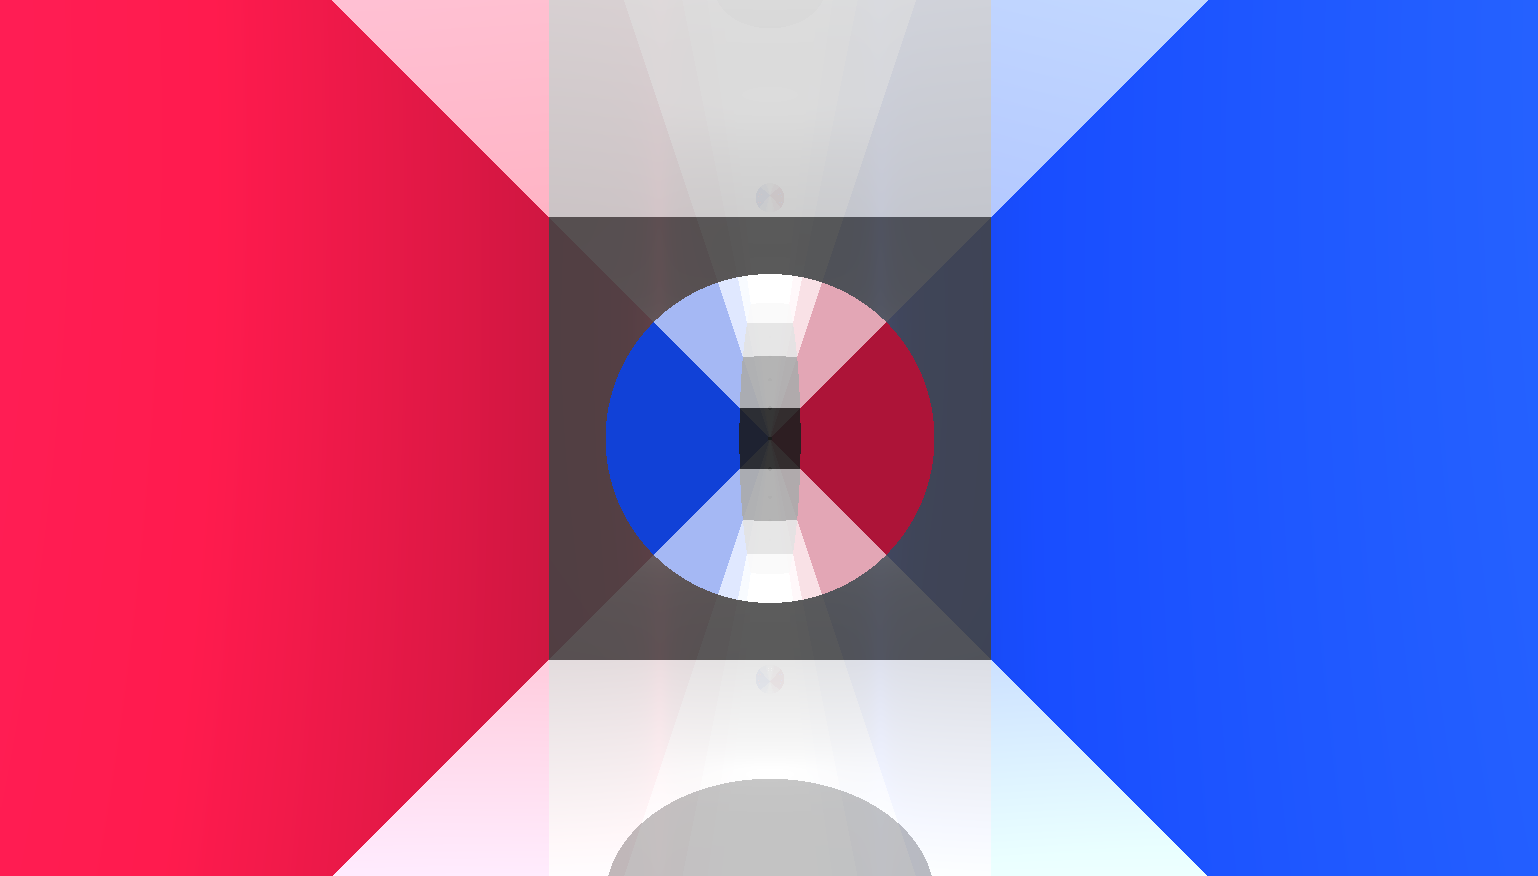
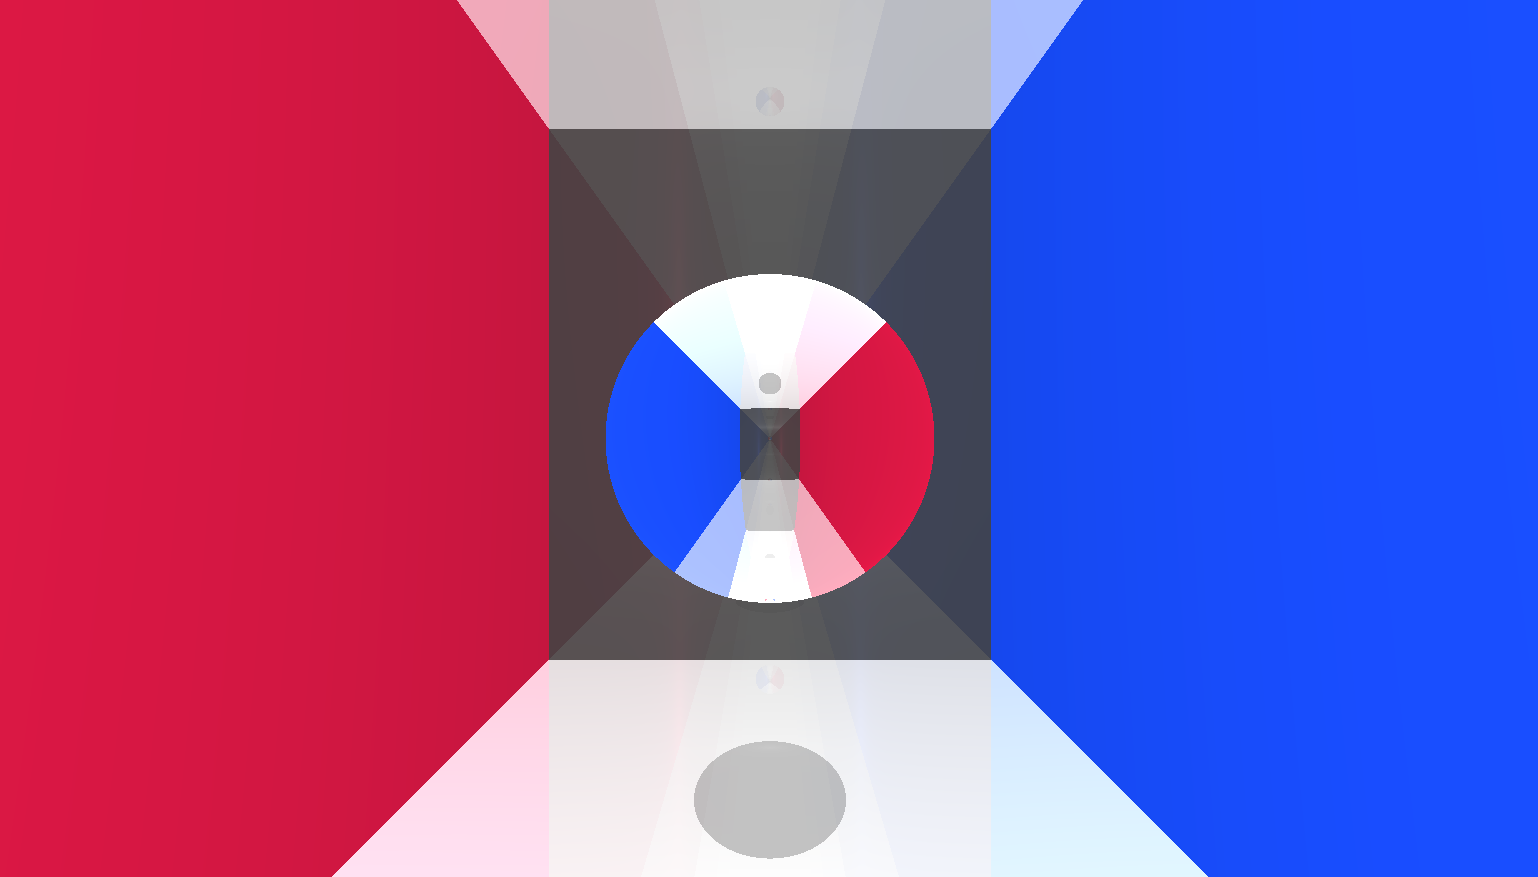
refraction fix

diff --git a/src/model.cpp b/src/model.cpp
@@ -1,11 +1,11 @@
 #include "common.h"
 #include "model.h"
 
-bool Object::isHit(glm::vec3 rayOrigin, glm::vec3 rayDir, float minRayLen, float maxRayLen) {
+bool Object::isHit(glm::vec3 rayOrigin, glm::vec3 rayDir, float minRayLen, float maxRayLen, bool inside) {
 	return false;
 }
 
-bool Sphere::isHit(glm::vec3 rayOrigin, glm::vec3 rayDir, float minRayLen, float maxRayLen) {
+bool Sphere::isHit(glm::vec3 rayOrigin, glm::vec3 rayDir, float minRayLen, float maxRayLen, bool inside) {
 
 	float bSq = pow(dot(rayDir, rayOrigin - center), 2);
 	float FourAC = dot(rayDir, rayDir) * dot(rayOrigin - center, rayOrigin - center) - radius * radius;
@@ -21,7 +21,13 @@ bool Sphere::isHit(glm::vec3 rayOrigin, glm::vec3 rayDir, float minRayLen, float
 	if (discriminant > 0) {
 		float t1 = rest + sqrtDisc / dot(rayDir, rayDir);
 		float t2 = rest - sqrtDisc / dot(rayDir, rayDir);
-		t1 < t2 ? rayLen = t1 : rayLen = t2;
+		if(inside){
+			t1 > t2 ? rayLen = t1 : rayLen = t2;
+		}
+		else {
+			t1 < t2 ? rayLen = t1 : rayLen = t2;
+		}
+		
 	}
 	else {  // discriminant < 0 
 		rayLen = rest;
@@ -32,30 +38,36 @@ bool Sphere::isHit(glm::vec3 rayOrigin, glm::vec3 rayDir, float minRayLen, float
 	}
 		
 	normal = normalize((rayOrigin + rayDir * rayLen) - center);
+	if (inside) {
+		normal = -normal;
+	}
 
 	return true;
 }
 
 
-bool Plane::isHit(glm::vec3 rayOrigin, glm::vec3 rayDir, float minRayLen, float maxRayLen) {
+bool Plane::isHit(glm::vec3 rayOrigin, glm::vec3 rayDir, float minRayLen, float maxRayLen, bool inside) {	
+	
+	float dotND = dot(normal, rayDir);
 
-	float dotND = dot(normal, rayDir); // sign tells us which side of a plane was hit
+	// Assuming that the plane hit is always outside the surface
 	if (dotND < 0) {
 		rayLen = dot(normal, position - rayOrigin) / dotND;
 
-		if (rayLen < minRayLen || rayLen > maxRayLen) {
+		if (rayLen <= minRayLen || rayLen > maxRayLen) {
 			return false;
-		}
+		}	
 		return true;
 	}
 	return false;
 }
 
-bool Triangle::isHit(glm::vec3 rayOrigin, glm::vec3 rayDir, float minRayLen, float maxRayLen) {
+bool Triangle::isHit(glm::vec3 rayOrigin, glm::vec3 rayDir, float minRayLen, float maxRayLen, bool inside) {
 
 	Plane * plane = new Plane();
 	plane->position = a;
-	plane->normal = normalize(cross((b - a), (c - a)));
+	glm::vec3 N = normalize(cross((b - a), (c - a)));
+	inside == true ? plane->normal = -N : plane->normal = N;
 	   
 	if (plane->isHit(rayOrigin, rayDir, minRayLen, maxRayLen)) {
 		glm::vec3 hitPos = rayOrigin + plane->rayLen * rayDir;

diff --git a/src/raytracer.cpp b/src/raytracer.cpp
@@ -21,6 +21,9 @@ const char *PATH = "scenes/";
 json scene;
 
 double fov = 60;
+const float MAX_RAY_LEN = 999.0f;
+const float MIN_RAY_LEN = 0.0001f;
+
 colour3 background_colour(0, 0, 0);
 std::vector<Object*> objects;
 std::vector<Light*> lights;
@@ -232,26 +235,21 @@ glm::vec3 trace(glm::vec3 rayOrigin, glm::vec3 rayDir, int bouncesLeft, bool ins
 	glm::vec3 colour(0, 0, 0);
 	
 	Object * closest = new Object();
-	closest->rayLen = 999;
+	closest->rayLen = MAX_RAY_LEN;
 
 	// traverse the objects	
 	for (Object * object : objects) {
-		if (object->isHit(rayOrigin, rayDir, 0.0001, 999)) {
+		if (object->isHit(rayOrigin, rayDir, MIN_RAY_LEN, MAX_RAY_LEN, inside)) {
 			if (object->rayLen < closest->rayLen) {
 				closest = object;
 			}
 		}		
 	}
 	
-	if (closest->rayLen != 999) {
+	if (closest->rayLen != MAX_RAY_LEN) {
 		glm::vec3 hitPos = rayOrigin + closest->rayLen * rayDir;
 		glm::vec3 V = -rayDir;
-		glm::vec3 N = closest->normal;
-
-		if (inside) {
-			N = -N;
-		}
-				
+		glm::vec3 N = closest->normal;				
 		Material * material = closest->material;	
 	
 		if (material->transmission == glm::vec3(0,0,0)) { // absorb everything			
@@ -259,13 +257,15 @@ glm::vec3 trace(glm::vec3 rayOrigin, glm::vec3 rayDir, int bouncesLeft, bool ins
 		}
 		else { // absorb some portion of a light			
 
-			glm::vec3 absorbed = glm::vec3(1, 1, 1) - material->transmission;
-			colour = absorbed * applyLights(material, N, V, hitPos);	
+			if (!inside) { // don't want to trap light inside...
+				glm::vec3 absorbed = 1.0f - material->transmission;
+				colour = absorbed * applyLights(material, N, V, hitPos);
+			}				
 
 			if (material->refraction != 0.0) { 
 				// Doesnt work if an object is inside another object... 
 				float eta;
-				inside == true ? eta = 1.0 / material->refraction : eta = material->refraction;			
+				inside == true ? eta = material->refraction : eta = 1.0 / material->refraction;
 				glm::vec3 refrDir = refractRay(hitPos, rayDir, N, eta);
 				colour += material->transmission * trace(hitPos, refrDir, bouncesLeft, !inside);
 			}	
@@ -275,7 +275,7 @@ glm::vec3 trace(glm::vec3 rayOrigin, glm::vec3 rayDir, int bouncesLeft, bool ins
 		}				
 		
 		if (material->reflection != glm::vec3(0,0,0)) {
-			if (bouncesLeft > 0) {
+			if (bouncesLeft > 0 && !inside) {
 				glm::vec3 reflDir = reflectRay(hitPos, N, V);
 				colour += material->reflection * trace(hitPos, reflDir, bouncesLeft-1, inside);
 			}

diff --git a/src/model.h b/src/model.h
@@ -34,20 +34,20 @@ public:
 	glm::vec3 normal;
 	float rayLen;
 
-	virtual bool isHit(glm::vec3 rayOrigin, glm::vec3 rayDir, float minRayLen, float maxRayLen);
+	virtual bool isHit(glm::vec3 rayOrigin, glm::vec3 rayDir, float minRayLen, float maxRayLen, bool inside = false);
 };
 
 class Sphere : public Object {
 public:
 	glm::vec3 center;
 	float radius;
-	bool isHit(glm::vec3 rayOrigin, glm::vec3 rayDir, float minRayLen, float maxRayLen) override;
+	bool isHit(glm::vec3 rayOrigin, glm::vec3 rayDir, float minRayLen, float maxRayLen, bool inside = false) override;
 };
 
 class Plane : public Object {
 public:
 	glm::vec3 position;
-	bool isHit(glm::vec3 rayOrigin, glm::vec3 rayDir, float minRayLen, float maxRayLen) override;
+	bool isHit(glm::vec3 rayOrigin, glm::vec3 rayDir, float minRayLen, float maxRayLen, bool inside = false) override;
 };
 
 
@@ -56,7 +56,7 @@ public:
 	glm::vec3 a;
 	glm::vec3 b;
 	glm::vec3 c;
-	bool isHit(glm::vec3 rayOrigin, glm::vec3 rayDir, float minRayLen, float maxRayLen) override;
+	bool isHit(glm::vec3 rayOrigin, glm::vec3 rayDir, float minRayLen, float maxRayLen, bool inside = false) override;
 };
 
 

diff --git a/src/main.cpp b/src/main.cpp
@@ -111,7 +111,7 @@ main( int argc, char **argv )
    glutInitDisplayMode( GLUT_RGBA | GLUT_DOUBLE | GLUT_DEPTH );
    glutInitWindowSize( 512, 512 );
    //glutInitWindowSize(300, 300);
-   //glutInitWindowSize(90, 90);
+   //glutInitWindowSize(110, 110);
    glutInitContextVersion( 3, 2 );
    glutInitContextProfile( GLUT_CORE_PROFILE );
    glutCreateWindow( WINDOW_TITLE );
